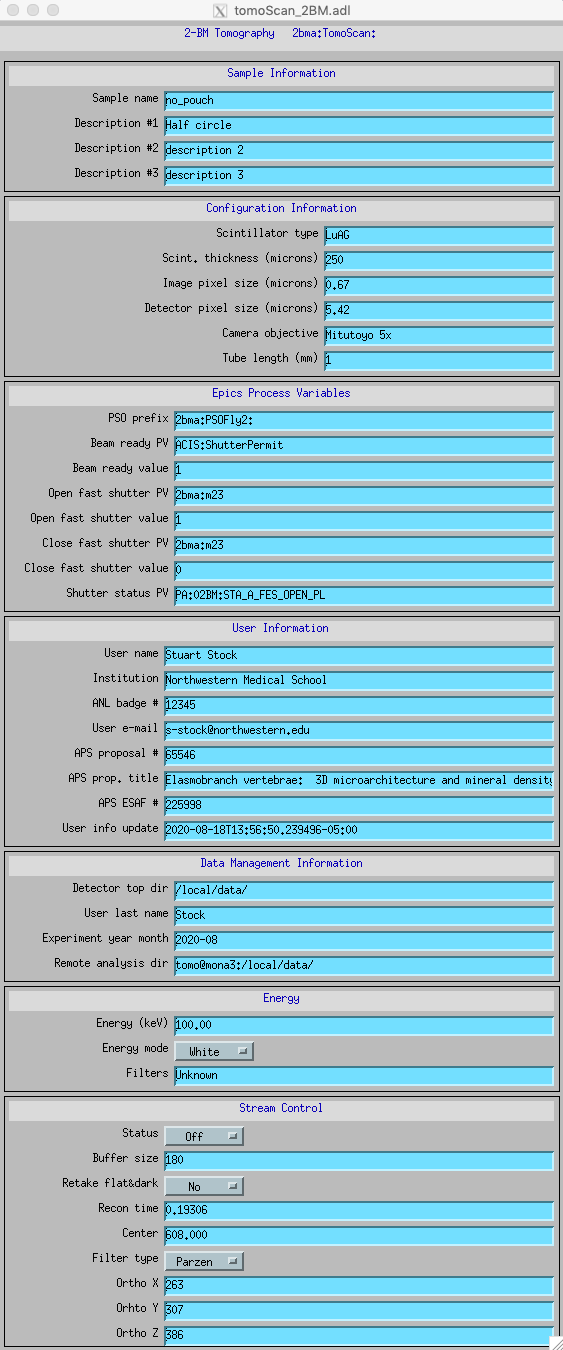
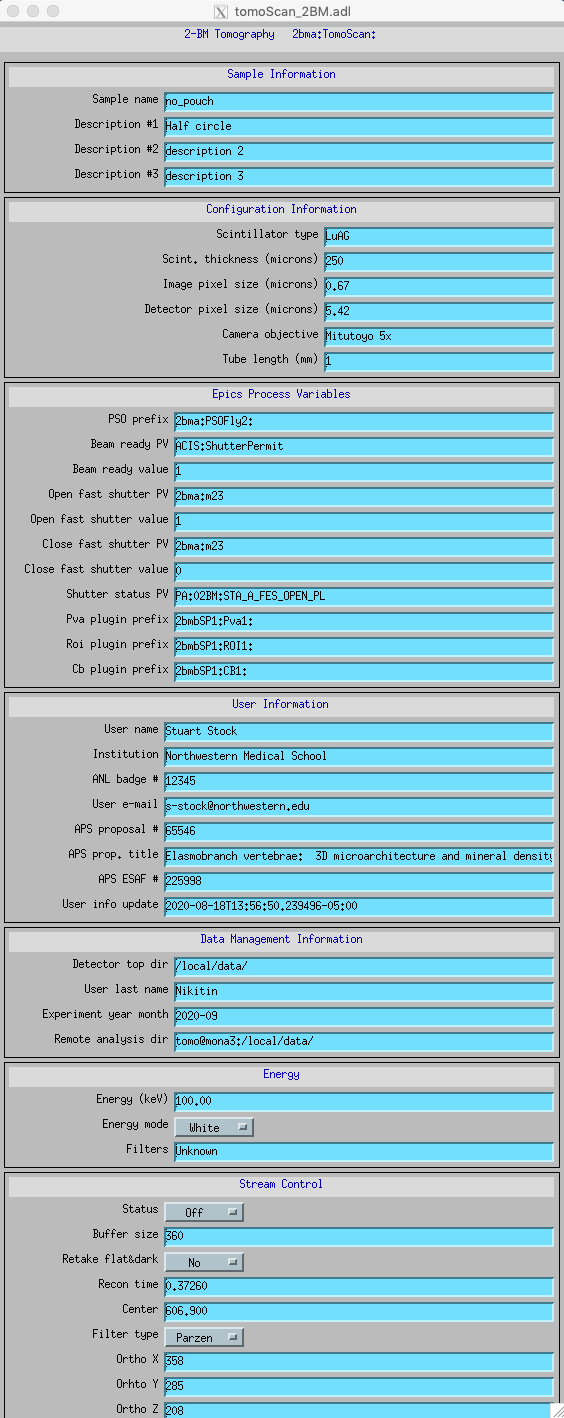
doc update: Pva, Roi and Cb plugin PV prefixes

diff --git a/docs/source/tomoScanApp.rst b/docs/source/tomoScanApp.rst
@@ -613,6 +613,27 @@ PSO Prefix
     - stringout
     - Contains the prefix for the PSO, e.g. 2bma:PSOFly2:
 
+Pva, Roi and Cb Plugin PV Prefixes
+~~~~~~~~~~~~~~~~~~~~~~~~~~~~~~~~~~
+
+.. cssclass:: table-bordered table-striped table-hover
+.. list-table::
+  :header-rows: 1
+  :widths: 5 5 90
+
+  * - Record name
+    - Record type
+    - Description
+  * - $(P)$(R)PvaPluginPVPrefix
+    - stringout
+    - Contains the prefix for the Pva plugin, e.g. 2bmbSP1:Pva1:
+  * - $(P)$(R)RoiPluginPVPrefix
+    - stringout
+    - Contains the prefix for the ROI plugin, e.g. 2bmbSP1:ROI1:
+  * - $(P)$(R)CbPluginPVPrefix
+    - stringout
+    - Contains the prefix for the CB plugin, e.g. 2bmbSP1:CB1:
+
 Energy information
 ^^^^^^^^^^^^^^^^^^
 
